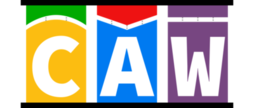
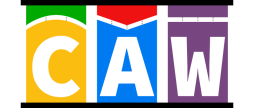
better images

diff --git a/_posts/2017-09-18-amazing-story.md b/_posts/2017-09-18-amazing-story.md
@@ -10,7 +10,7 @@ tags:
   - BRCA1
 author: maxulysse
 image:
-  path: /assets/img/category/books.png
+  path: /assets/img/category/books.jpg
 ---
 
 Amazing read of the day by the excellent Dr Mary-Claire King: [The Week My Husband Left And My House Was Burgled I Secured A Grant To Begin The Project That Became BRCA1](http://www.huffingtonpost.co.uk/dr-maryclaire-king/brca-marriage-testing_b_17908074.html)

diff --git a/_posts/2017-09-07-good-read-of-the-day.md b/_posts/2017-09-07-good-read-of-the-day.md
@@ -10,7 +10,7 @@ tags:
   - Zimmer
 author: maxulysse
 image:
-  path: /assets/img/category/books.png
+  path: /assets/img/category/books.jpg
 ---
 Interesting read of the day by the excellent Carl Zimmer on medium: [Let’s Not Lose Our Minds](https://medium.com/@carlzimmer/lets-not-lose-our-minds-c5dcac29e97f)
 
